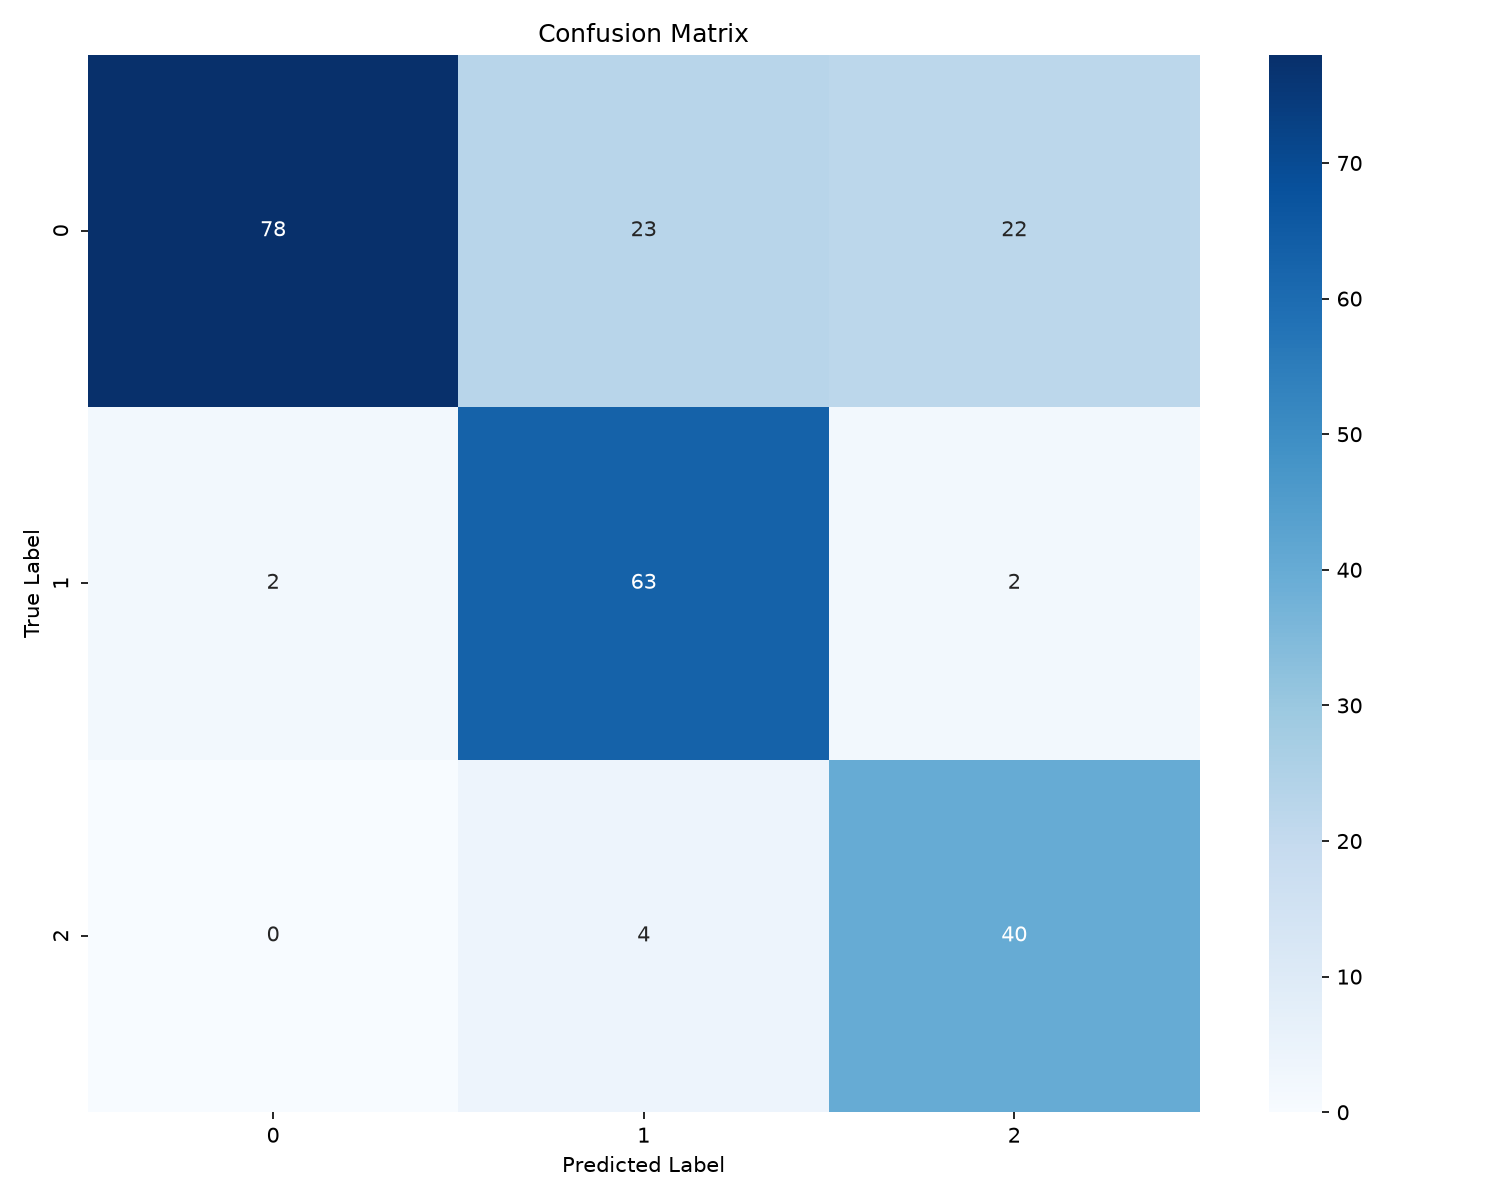
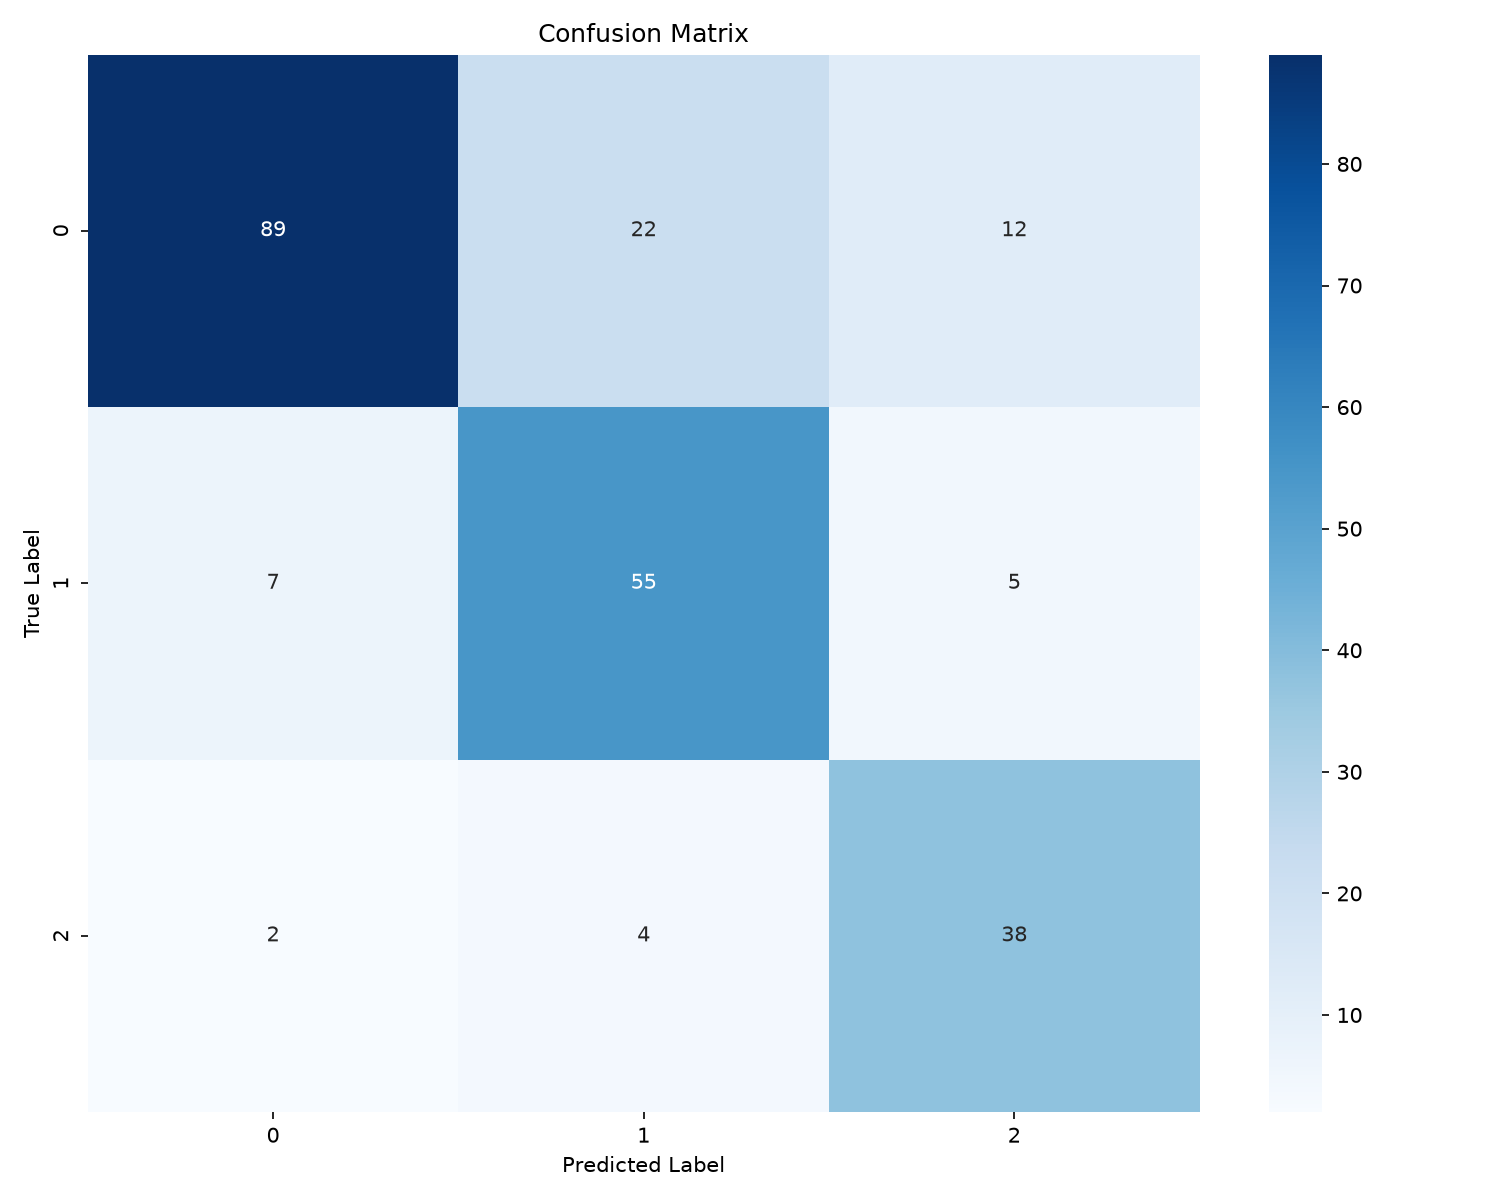
updated

diff --git a/artist_net.py b/artist_net.py
@@ -2975,42 +2975,37 @@ class ArtistNetSpectrogramV18(torch.nn.Module):
 
         self.activ = torch.nn.LeakyReLU()
 
-        # self.cond_dp0 = torch.nn.Dropout2d(p=0.1)
         self.conv1 = torch.nn.Conv2d(1, conv1_channels,
                                      (conv1_Wkernel, conv1_Hkernel), stride=(conv1_stride, conv1_stride),
                                      padding=(conv1_Wpadding, conv1_Hpadding), groups=1)
         self.conv_bn1 = torch.nn.BatchNorm2d(num_features=conv1_channels)
-        self.cond_dp1 = torch.nn.Dropout2d(p=0.1)
         self.conv2 = torch.nn.Conv2d(conv1_channels, conv2_channels,
                                      (conv2_Wkernel, conv2_Hkernel), stride=(conv2_stride, conv2_stride),
                                      padding=(conv2_Wpadding, conv2_Hpadding), groups=1)
         self.conv_bn2 = torch.nn.BatchNorm2d(num_features=conv2_channels)
-        self.cond_dp2 = torch.nn.Dropout2d(p=0.1)
         self.conv3 = torch.nn.Conv2d(conv2_channels, conv3_channels,
                                      (conv3_Wkernel, conv3_Hkernel), stride=(conv3_stride, conv3_stride),
                                      padding=(conv3_Wpadding, conv3_Hpadding), groups=1)
         self.conv_bn3 = torch.nn.BatchNorm2d(num_features=conv3_channels)
-        self.cond_dp3 = torch.nn.Dropout2d(p=0.1)
         self.conv4 = torch.nn.Conv2d(conv3_channels, conv4_channels,
                                      (conv4_Wkernel, conv4_Hkernel), stride=(conv4_stride, conv4_stride),
                                      padding=(conv4_Wpadding, conv4_Hpadding), groups=1)
         self.conv_bn4 = torch.nn.BatchNorm2d(num_features=conv4_channels)
-        self.cond_dp4 = torch.nn.Dropout2d(p=0.1)
         self.conv5 = torch.nn.Conv2d(conv4_channels, conv5_channels,
                                      (conv5_Wkernel, conv5_Hkernel), stride=(conv5_stride, conv5_stride),
                                      padding=(conv5_Wpadding, conv5_Hpadding), groups=1)
         self.conv_bn5 = torch.nn.BatchNorm2d(num_features=conv5_channels)
 
-        self.dp0 = torch.nn.Dropout(p=0.1)
+        self.dp0 = torch.nn.Dropout(p=0.25)
         self.fc1 = torch.nn.Linear(self.S5, self.n_hidden_neurons)
         self.fc_bn1 = torch.nn.BatchNorm1d(num_features=self.n_hidden_neurons)
-        self.dp1 = torch.nn.Dropout(p=0.1)
+        self.dp1 = torch.nn.Dropout(p=0.25)
         self.fc2 = torch.nn.Linear(self.n_hidden_neurons, self.n_hidden_neurons)
         self.fc_bn2 = torch.nn.BatchNorm1d(num_features=self.n_hidden_neurons)
-        self.dp2 = torch.nn.Dropout(p=0.1)
+        self.dp2 = torch.nn.Dropout(p=0.25)
         self.fc3 = torch.nn.Linear(self.n_hidden_neurons, self.n_hidden_neurons)
         self.fc_bn3 = torch.nn.BatchNorm1d(num_features=self.n_hidden_neurons)
-        self.dp3 = torch.nn.Dropout(p=0.1)
+        self.dp3 = torch.nn.Dropout(p=0.25)
         self.fc4 = torch.nn.Linear(self.n_hidden_neurons, 2 * N)
         # self.fc_bn4 = torch.nn.BatchNorm1d(num_features=2 * N)
         self.maxpool = torch.nn.MaxPool1d(2)
@@ -3020,19 +3015,14 @@ class ArtistNetSpectrogramV18(torch.nn.Module):
         _print('forward')
         batch_size = list(x.shape)[0]
         x = x.reshape(batch_size, 1, self.W, self.H)
-        # x = self.cond_dp0(x)
         x = self.activ(self.conv_bn1(self.conv1(x)))
         _print(x.shape)
-        x = self.cond_dp1(x)
         x = self.activ(self.conv_bn2(self.conv2(x)))
         _print(x.shape)
-        x = self.cond_dp2(x)
         x = self.activ(self.conv_bn3(self.conv3(x)))
         _print(x.shape)
-        x = self.cond_dp3(x)
         x = self.activ(self.conv_bn4(self.conv4(x)))
         _print(x.shape)
-        x = self.cond_dp4(x)
         x = self.activ(self.conv_bn5(self.conv5(x)))
         _print(x.shape)
         x = x.reshape(batch_size, -1)

diff --git a/artist_folder_test_spectrogram_npu.py b/artist_folder_test_spectrogram_npu.py
@@ -34,7 +34,7 @@ weights_dir = f'{working_dir}/weights/{version_name}_{suffix}_weights'
 FRAME_RATE = 8000
 CHUNK_SIZE = 24000
 
-last_epoch = 25
+last_epoch = 4
 
 S = 24000
 N = 3
